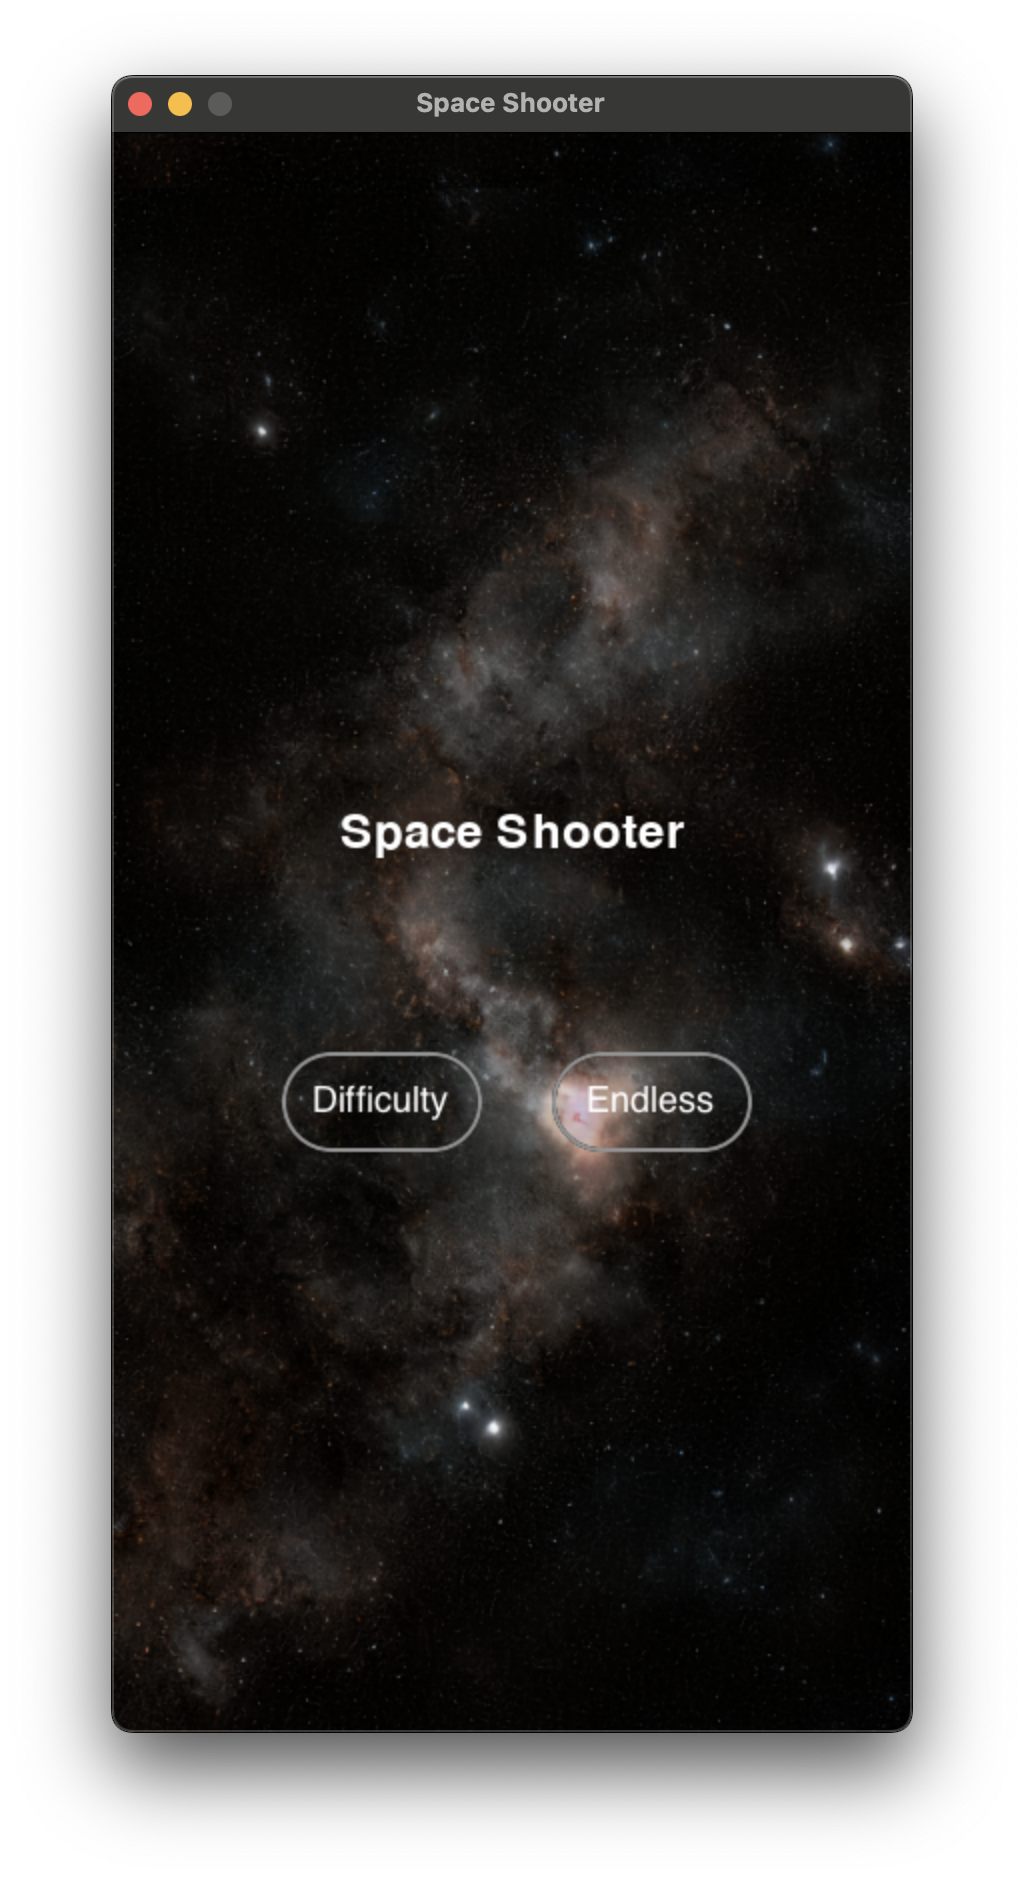
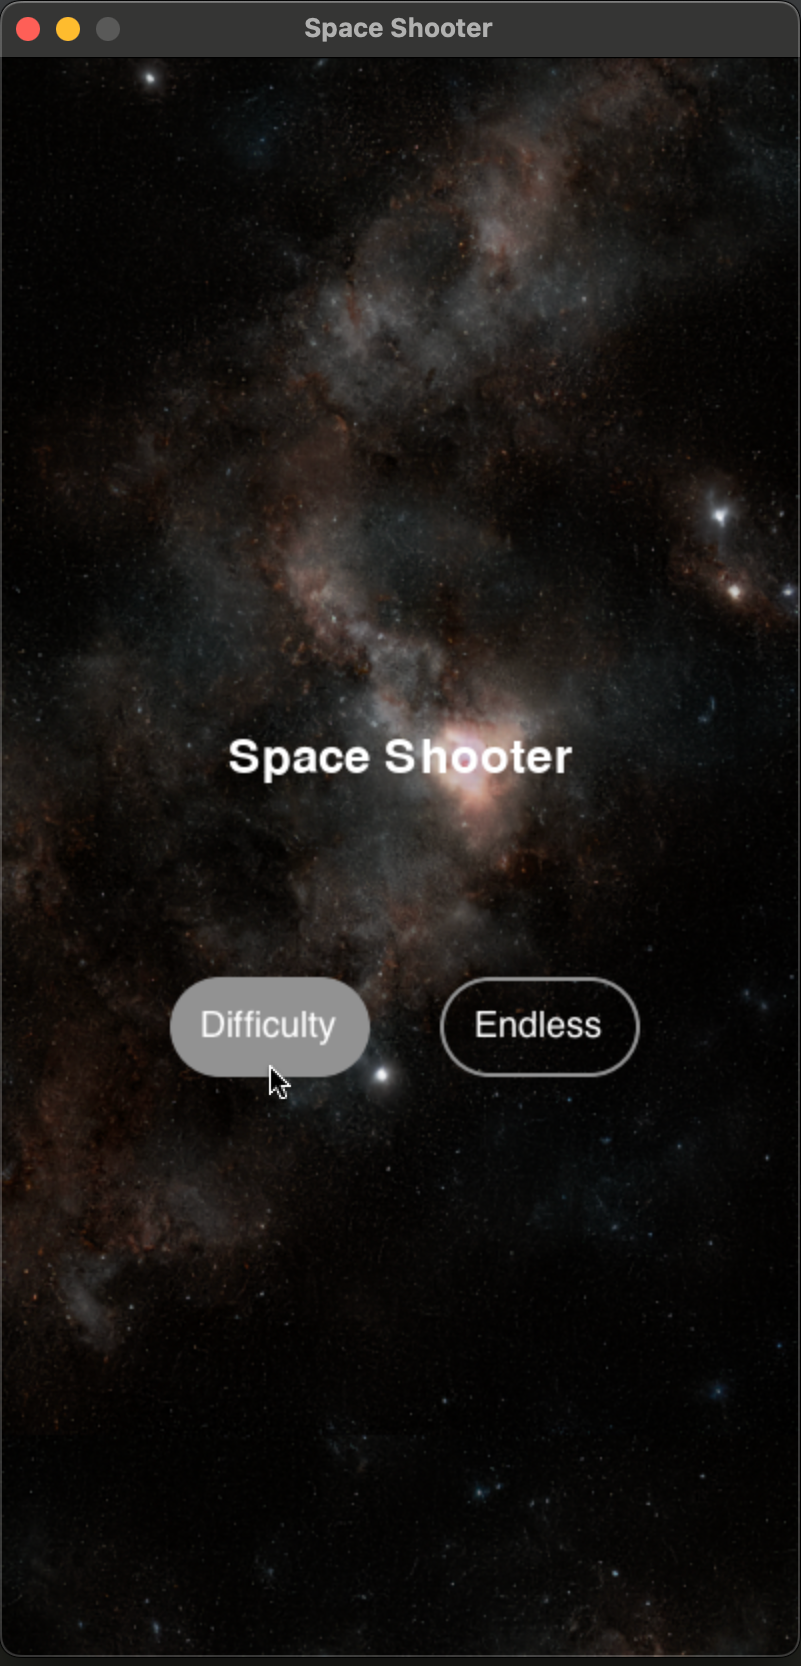
vB 1.4 Button - Update Button Resources - Hover Effect

diff --git a/game.py b/game.py
@@ -171,6 +171,7 @@ def bullet_collision(block_list, bullet_list, spawn):
 
 # Continuous Shooting
 def enemy_shooting(block_list):
+    # noinspection PyGlobalUndefined
     global enemy_bullets
     current_enemy = block_list.head
     while current_enemy:
@@ -186,8 +187,8 @@ def enemy_shooting(block_list):
                         else:
                             fire_shift = current_enemy.fire_shift[current_weapon]
                         fire_position = [sum(x) for x in zip(current_enemy.position, fire_shift)]
-                        contact = [list(item) for item in enemy_armory.index_at(index=current_weapon).contact]
-                        contact = [[sum(x) for x in zip(item, fire_position)] for item in contact]
+                        contact = [list(item0) for item0 in enemy_armory.index_at(index=current_weapon).contact]
+                        contact = [[sum(x) for x in zip(item1, fire_position)] for item1 in contact]
                         # Add to Enemy Bullet
                         enemy_bullets.append(index=current_weapon, position=fire_position, contact=contact)
                     # Set Cooldown
@@ -203,6 +204,7 @@ def enemy_shooting(block_list):
 ####################################################################################################
 # Main Function
 ####################################################################################################
+# noinspection PyGlobalUndefined
 def main():
     # Global Variable
     global screen, score, crates
@@ -217,13 +219,13 @@ def main():
     if score > 10 and 0 <= score % 100 <= 5 and create_boss:
         boss_create()
         create_boss = False
-    elif score > 10 and 5 < score % 100 < 10:
+    elif score > 10 > score % 100 > 5:
         create_boss = True
     # Boss Creation - Mini Boss - TODO Generation Error
-    if score > 10 and 0 <= score % 25 <= 5 and score % 100 != 0 and create_miniboss:
+    if score > 10 and 5 >= score % 25 >= 0 != score % 100 and create_miniboss:
         miniboss_create()
         create_miniboss = False
-    elif score > 10 and 5 < score % 25 < 10:
+    elif score > 10 > score % 25 > 5:
         create_miniboss = True
     ################################################################################
     ################################################################################
@@ -237,13 +239,13 @@ def main():
             # Bullet Fire at Current Player x position
             player_bullets.append(index=active_bullet.index,
                                   position=[player.position[0], BULLET_ORIGIN_Y],
-                                  contact=[list(item) for item in active_bullet.contact])
+                                  contact=[list(item2) for item2 in active_bullet.contact])
             # Reset CoolDown
             active_bullet.cooldown[1] = active_bullet.cooldown[0]
             # Bullet contact set
             new_bullet = player_bullets.get_last_element()
-            for item in new_bullet.contact:
-                item[0] = player.position[0] + item[0] - BULLET_ORIGIN_X
+            for item3 in new_bullet.contact:
+                item3[0] = player.position[0] + item3[0] - BULLET_ORIGIN_X
     # Cool Down for Bullet
     if active_bullet.cooldown[1] > 0:
         active_bullet.cooldown[1] -= 1
@@ -275,8 +277,8 @@ def main():
     current_bullet = player_bullets.head
     while current_bullet:
         current_bullet.position[1] -= active_bullet.speed  # Update Position
-        for item in current_bullet.contact:  # Update Contact Point
-            item[1] -= active_bullet.speed
+        for item4 in current_bullet.contact:  # Update Contact Point
+            item4[1] -= active_bullet.speed
         # Reset Bullet
         if current_bullet.position[1] <= 0:  # Delete Bullet After Moves Off Screen
             player_bullets.delete(current_bullet=current_bullet)
@@ -285,11 +287,11 @@ def main():
     current_bullet = enemy_bullets.head
     while current_bullet:
         current_bullet.position[1] += enemy_armory.index_at(index=current_bullet.index).speed  # Update Position
-        for item in current_bullet.contact:  # Update Contact
+        for item5 in current_bullet.contact:  # Update Contact
             if current_bullet.index == 3:  # Special Case of Type 3 Weapon
-                item[1] = player.center[1]
+                item5[1] = player.center[1]
             else:
-                item[1] += enemy_armory.index_at(index=current_bullet.index).speed
+                item5[1] += enemy_armory.index_at(index=current_bullet.index).speed
         if current_bullet.position[1] >= SCREEN_HEIGHT:  # Remove After Off-Screen
             enemy_bullets.delete(current_bullet=current_bullet)
         current_bullet = current_bullet.next
@@ -391,8 +393,8 @@ def main():
         for bullet_index in range(0, len(enemy_bullets)):
             fire_bullet_enemy(bullet_block=enemy_bullets.get_element_at(position=bullet_index))
     # Update Display Element
-    score_text = font24.render("Score: " + str(score), True, WHITE)
-    screen.blit(score_text, (10, 10))
+    current_score = font24.render("Score: " + str(score), True, WHITE)
+    screen.blit(current_score, (10, 10))
     life_text = font18.render("Life X " + str(player.life[1]), True, WHITE)
     screen.blit(life_text, (10, SCREEN_HEIGHT - 5 - 18))
 
@@ -404,7 +406,8 @@ if __name__ == "__main__":
     # Variable
     RUNNING, BULLET_FIRE = True, False
     enemy_exist = False
-    intro_screen, end_screen, score_board, error_screen, level_screen, pause_screen = True, False, False, False, False, False
+    intro_screen, end_screen, score_board, error_screen, level_screen, pause_screen = (
+        True, False, False, False, False, False)
     background_timer = time.time()
     # Storage
     highest_score = 0
@@ -554,8 +557,8 @@ if __name__ == "__main__":
             # Show Texts
             screen.blit(intro_text, intro_text_rect)
             # Intro Screen Button
-            screen.blit(buttons.name('level').image, buttons.name('level').rect.topleft)
-            screen.blit(buttons.name('endless').image, buttons.name('endless').rect.topleft)
+            button_show(screen=screen, name='level')
+            button_show(screen=screen, name='endless')
         ################################################################################
         ################################################################################
         elif end_screen:
@@ -564,11 +567,11 @@ if __name__ == "__main__":
             score_text_end_rect = score_text_end.get_rect()
             score_text_end_rect.center = (SCREEN_WIDTH // 2, SCREEN_HEIGHT // 2 - 50)
             screen.blit(score_text_end, score_text_end_rect)
-            # Render Button
-            screen.blit(buttons.name('restart').image, buttons.name('restart').rect.topleft)
-            screen.blit(buttons.name('main_menu').image, buttons.name('main_menu').rect.topleft)
-            screen.blit(buttons.name('score_board').image, buttons.name('score_board').rect.topleft)
-            screen.blit(buttons.name('quit').image, buttons.name('quit').rect.topleft)
+            # End Screen Button
+            button_show(screen=screen, name='restart')
+            button_show(screen=screen, name='main_menu')
+            button_show(screen=screen, name='score_board')
+            button_show(screen=screen, name='quit')
         ################################################################################
         ################################################################################
         elif score_board:
@@ -579,8 +582,8 @@ if __name__ == "__main__":
             score_board_text_rect.center = (SCREEN_WIDTH // 2, SCREEN_HEIGHT // 2 - 50)
             screen.blit(score_board_text, score_board_text_rect)
             # Show Button
-            screen.blit(buttons.name('main_menu').image, buttons.name('main_menu').rect.topleft)
-            screen.blit(buttons.name('quit').image, buttons.name('score_board').rect.topleft)
+            button_show(screen=screen, name='main_menu')
+            button_show(screen=screen, name='quit', position_name='score_board')
         ################################################################################
         ################################################################################
         elif error_screen:
@@ -590,8 +593,8 @@ if __name__ == "__main__":
             error_text_rect.center = (SCREEN_WIDTH // 2, SCREEN_HEIGHT // 2 - 50)
             screen.blit(error_text, error_text_rect)
             # Show Button
-            screen.blit(buttons.name('main_menu').image, buttons.name('main_menu').rect.topleft)
-            screen.blit(buttons.name('quit').image, buttons.name('score_board').rect.topleft)
+            button_show(screen=screen, name='main_menu')
+            button_show(screen=screen, name='quit', position_name='score_board')
         ################################################################################
         ################################################################################
         elif level_screen:  # Level Selection
@@ -601,12 +604,12 @@ if __name__ == "__main__":
             level_title_rect.center = (200, 150)
             screen.blit(level_title, level_title_rect)
             # Show Button
-            screen.blit(buttons.name('easy').image, buttons.name('easy').rect.topleft)
-            screen.blit(buttons.name('medium').image, buttons.name('medium').rect.topleft)
-            screen.blit(buttons.name('hard').image, buttons.name('hard').rect.topleft)
-            screen.blit(buttons.name('hell').image, buttons.name('hell').rect.topleft)
-            screen.blit(buttons.name('main_menu').image, buttons.name('score_board').rect.topleft)
-            screen.blit(buttons.name('quit').image, buttons.name('quit').rect.topleft)
+            button_show(screen=screen, name='easy')
+            button_show(screen=screen, name='medium')
+            button_show(screen=screen, name='hard')
+            button_show(screen=screen, name='hell')
+            button_show(screen=screen, name='main_menu', position_name='score_board')
+            button_show(screen=screen, name='quit')
         ################################################################################
         ################################################################################
         elif pause_screen:
@@ -616,8 +619,8 @@ if __name__ == "__main__":
             score_text_rect.center = (SCREEN_WIDTH // 2, SCREEN_HEIGHT // 2 - 50)
             screen.blit(score_text, score_text_rect)
             # Button
-            screen.blit(buttons.name('resume').image, buttons.name('resume').rect.topleft)
-            screen.blit(buttons.name('quit').image, buttons.name('score_board').rect.topleft)
+            button_show(screen=screen, name='resume')
+            button_show(screen=screen, name='quit', position_name='score_board')
         ################################################################################
         ################################################################################
         else:  # Normal Game
@@ -635,8 +638,8 @@ if __name__ == "__main__":
                     enemy_generate(number=ENEMY_NUMBER)
                 enemy_exist = True
             # Endless Run
-            screen.blit(buttons.name('exit').image, buttons.name('exit').rect.topleft)
-            screen.blit(buttons.name('pause').image, buttons.name('pause').rect.topleft)
+            button_show(screen=screen, name='exit')
+            button_show(screen=screen, name='pause')
             main()  # Main Game Function - Endless Run
         # Update Pygame Screen
         pygame.display.update()

diff --git a/blockelements.py b/blockelements.py
@@ -405,6 +405,28 @@ buttons.name(name='exit').rect.topleft = (5, SCREEN_WIDTH - 10 - BUTTON_SIZE_ON_
 # Pause Screen
 buttons.name(name='resume').rect.topleft = (150, 480)
 
+
+# Hover Collision
+def hover_collide(name, position, position_name=None):
+    global buttons
+    current_button = buttons.name(name=name)
+    if position_name is not None:
+        current_button.hovered = buttons.name(name=position_name).rect.collidepoint(position)
+    else:
+        current_button.hovered = current_button.rect.collidepoint(position)
+
+
+# Draw Buttons
+def button_show(screen, name, position_name=None):
+    # Hover Effect
+    hover_collide(name=name, position=pygame.mouse.get_pos(), position_name=position_name)
+    # Show Buttons on Screen
+    if position_name is None:
+        screen.blit(buttons.name(name=name).draw(), buttons.name(name=name).rect.topleft)
+    else:
+        screen.blit(buttons.name(name=name).draw(), buttons.name(name=position_name).rect.topleft)
+
+
 ##################################################
 # Explosion Image Block
 ##################################################

diff --git a/structures.py b/structures.py
@@ -384,10 +384,22 @@ class CrateList:
 class Button:
     def __init__(self, name):
         self.name = name
+        # Image
         self.image = pygame.image.load('resources/button/button_' + str(name) + '.png')
+        self.image_hovered = pygame.image.load('resources/button/button_' + str(name) + '_hovered.png')
+        # Image Rect
         self.rect = self.image.get_rect()
         # Connect
         self.next = None
+        # Self Identifier
+        self.hovered = False
+
+    # Show Button
+    def draw(self):
+        if self.hovered:
+            return self.image_hovered
+        else:
+            return self.image
 
 
 class ButtonList:
